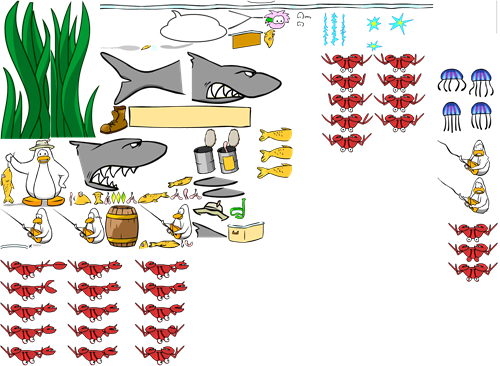
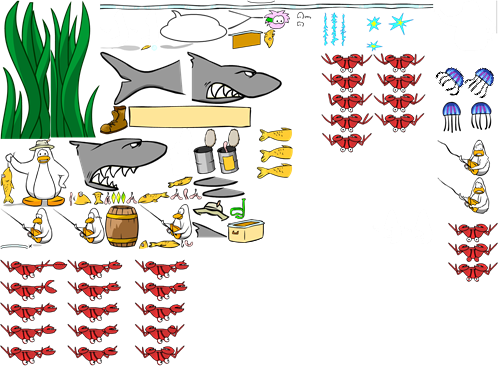
Necessary updates

Changed region(s): [[0.87, 0.1803, 0.99, 0.2705], [0.45, 0.6011, 0.54, 0.6311]]

diff --git a/src/fishingly/FishingCanvas.java b/src/fishingly/FishingCanvas.java
@@ -61,11 +61,11 @@ public class FishingCanvas extends GameCanvas implements Runnable, CommandListen
     private final int[] SPR_FISH_1      = {257, 126, 36, 18};  
     private final int[] SPR_FISH_2      = {257, 145, 36, 18};  
     private final int[] SPR_FISH_HEAD   = {73, 191, 19, 14};   
-    private final int[] SPR_JELLY_1     = {438, 70, 25, 30}; 
-    private final int[] SPR_JELLY_2     = {468, 70, 25, 30}; 
+    private final int[] SPR_JELLY_1     = {435, 67, 29, 29}; 
+    private final int[] SPR_JELLY_2     = {464, 67, 30, 30}; 
     private final int[] SPR_BOOT        = {100, 105, 28, 30};    
     private final int[] SPR_CAN         = {193, 146, 23, 28};   
-    private final int[] SPR_COOLER      = {227, 222, 38, 24}; 
+    private final int[] SPR_COOLER      = {227, 219, 38, 24}; 
     private final int[] SPR_ICE         = {100, 0, 333, 10};     
     private final int[] SPR_SEAWEED     = {0, 0, 100, 138}; 
 
@@ -89,6 +89,12 @@ public class FishingCanvas extends GameCanvas implements Runnable, CommandListen
         setFullScreenMode(true);
         loadSprites();
         initGame();
+    }
+
+    // ИСПРАВЛЕНИЕ МЕРЦАНИЯ 1: Переопределяем системный paint
+    // Это не дает системе влезать в нашу двойную буферизацию GameCanvas
+    public void paint(Graphics g) {
+        // Ничего не делаем, вся отрисовка только через наш цикл run()
     }
 
     private Image extractSprite(Image src, int[] rect) {
@@ -155,8 +161,8 @@ public class FishingCanvas extends GameCanvas implements Runnable, CommandListen
             
             Image baseJelly1 = extractSprite(rawAssets, SPR_JELLY_1);
             Image baseJelly2 = extractSprite(rawAssets, SPR_JELLY_2);
-            imgJelly1_L = rotateImage(baseJelly1, -67); imgJelly1_R = rotateImage(baseJelly1, 67);  
-            imgJelly2_L = rotateImage(baseJelly2, -67); imgJelly2_R = rotateImage(baseJelly2, 67);
+            imgJelly1_L = extractSprite(rawAssets, SPR_JELLY_1); imgJelly1_R = imgJelly1_L;
+            imgJelly2_L = extractSprite(rawAssets, SPR_JELLY_2); imgJelly2_R = imgJelly2_L;
 
             imgBoot    = extractSprite(rawAssets, SPR_BOOT);
             imgCan     = extractSprite(rawAssets, SPR_CAN);
@@ -328,9 +334,10 @@ public class FishingCanvas extends GameCanvas implements Runnable, CommandListen
     }
 
     private void drawScreen(Graphics g) {
-        // --- 0. Дневное светлое небо ---
+        // ИСПРАВЛЕНИЕ МЕРЦАНИЯ 2: Очищаем весь экран целиком каждый кадр.
+        // Это уничтожает "шлейфы" и артефакты от движущихся рыб, если текстуры имеют прозрачность.
         g.setColor(0x87CEEB); // Sky Blue
-        g.fillRect(0, 0, getWidth(), startHookY);
+        g.fillRect(0, 0, getWidth(), getHeight()); 
 
         // --- 1. Плавное колыхание воды ---
         if (imgWater != null) {
@@ -460,11 +467,10 @@ public class FishingCanvas extends GameCanvas implements Runnable, CommandListen
                 }
             } 
             else if (objType[i] == 2) { 
-                Image frame = (objSpeed[i] > 0) ? 
-                    (((animTick / 6) % 2 == 0) ? imgJelly1_R : imgJelly2_R) :
-                    (((animTick / 6) % 2 == 0) ? imgJelly1_L : imgJelly2_L);
-                if (frame != null) drawImg(g, frame, objX[i], objY[i], Sprite.TRANS_NONE);
-            } 
+                Image frame = ((animTick / 6) % 2 == 0) ? imgJelly1_L : imgJelly2_L;
+                int transform = (objSpeed[i] > 0) ? Sprite.TRANS_NONE : Sprite.TRANS_MIRROR;
+                if (frame != null) drawImg(g, frame, objX[i], objY[i], transform);
+            }
             else if (objType[i] == 3) { 
                 int transform = (objSpeed[i] > 0) ? Sprite.TRANS_NONE : Sprite.TRANS_MIRROR;
                 if (imgBoot != null) drawImg(g, imgBoot, objX[i], objY[i], transform);
@@ -476,11 +482,26 @@ public class FishingCanvas extends GameCanvas implements Runnable, CommandListen
 
         // --- 8. UI ---
         if (gameOver) {
-            g.setColor(0xFF0000);
-            g.drawString("ИГРА ОКОНЧЕНА", getWidth()/2, getHeight()/2 - 10, Graphics.TOP | Graphics.HCENTER);
+            int centerX = getWidth() / 2;
+            int commonW = 130; // Единая ширина для обоих блоков
+            
+            int statusH = 30;
+            int statusY = getHeight() / 2 - 45;
+            g.setColor(0xFF0000); // Красный фон
+            g.fillRect(centerX - commonW / 2, statusY, commonW, statusH);
+            g.setColor(0xFFFFFF); // Белый текст
+            g.drawString("ИГРА ОКОНЧЕНА", centerX, statusY + 7, Graphics.TOP | Graphics.HCENTER);
+            
+            int btnH = 35;
+            int btnY = getHeight() / 2 - 5;
+            g.setColor(0x00AA00); // Зеленый фон
+            g.fillRect(centerX - commonW / 2, btnY, commonW, btnH);   
+            g.setColor(0xFFFFFF); // Белый текст
+            g.drawString("Начать заново", centerX, btnY + 9, Graphics.TOP | Graphics.HCENTER);
         }
+
         g.setColor(0x000000); 
-        g.drawString("Рыбы (Улов): " + fishCount, 5, 2, Graphics.TOP | Graphics.LEFT);
+        g.drawString("Рыбы: " + fishCount, 5, 2, Graphics.TOP | Graphics.LEFT);
         g.drawString("Очки: " + points, 5, 20, Graphics.TOP | Graphics.LEFT);
         g.drawString("Снасти: " + lives, getWidth() - 5, 2, Graphics.TOP | Graphics.RIGHT);
 
@@ -492,6 +513,19 @@ public class FishingCanvas extends GameCanvas implements Runnable, CommandListen
     }
 
     protected void pointerPressed(int x, int y) {
+        // НОВАЯ ФУНКЦИЯ: Обработка кнопки рестарта на тачскрине
+        if (gameOver) {
+            int btnW = 120;
+            int btnH = 35;
+            int btnX = getWidth() / 2 - btnW / 2;
+            int btnY = getHeight() / 2 - 5;
+            
+            if (x >= btnX && x <= btnX + btnW && y >= btnY && y <= btnY + btnH) {
+                initGame();
+            }
+            return;
+        }
+
         if (!gameOver) {
             // Клик по кулеру -> Продажа рыбы
             int cw = imgCooler != null ? imgCooler.getWidth() : 50;
